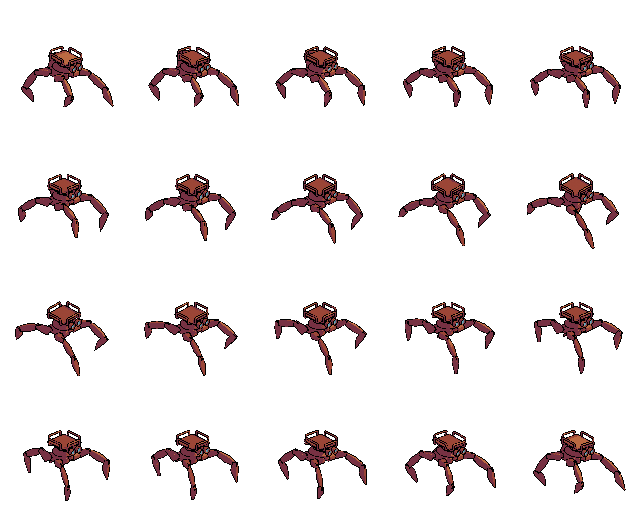
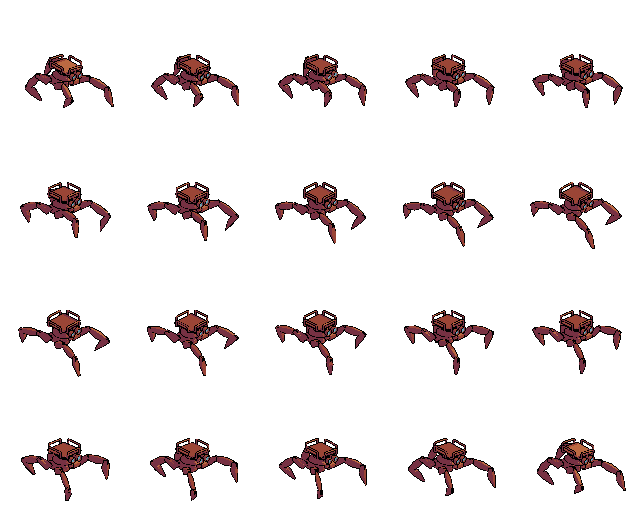
Improved walk height

diff --git a/src/game/PlayerController.ts b/src/game/PlayerController.ts
@@ -44,11 +44,14 @@ export class PlayerController extends Behaviour {
         else if (input.x < 0 && input.y > 0) input = new Vec2(-1, 1);
         else input = new Vec2(0, 0);
 
-        const state = input.sqrMag() === 0 ? "idle" : "walk";
-        if (!input.equals(this.orientation) || state !== this.state) {
-            this.orientation = input;
-            this.state = state;
-            const newCycle = `${state}-${getCardinal(input)}`;
+        const newState = input.sqrMag() === 0 ? "idle" : "walk";
+        const newOrientation = input.sqrMag() === 0 ? this.orientation : input;
+        if (
+            !newOrientation.equals(this.orientation) || newState !== this.state
+        ) {
+            this.state = newState;
+            this.orientation = newOrientation;
+            const newCycle = `${newState}-${getCardinal(newOrientation)}`;
             actor.animator?.start(newCycle, time);
         }
 

diff --git a/src/engine/Animator.ts b/src/engine/Animator.ts
@@ -72,7 +72,7 @@ export class Animator extends Component {
             index,
             actor.position.x,
             actor.position.y,
-            4,
+            2,
         );
         return;
     }
